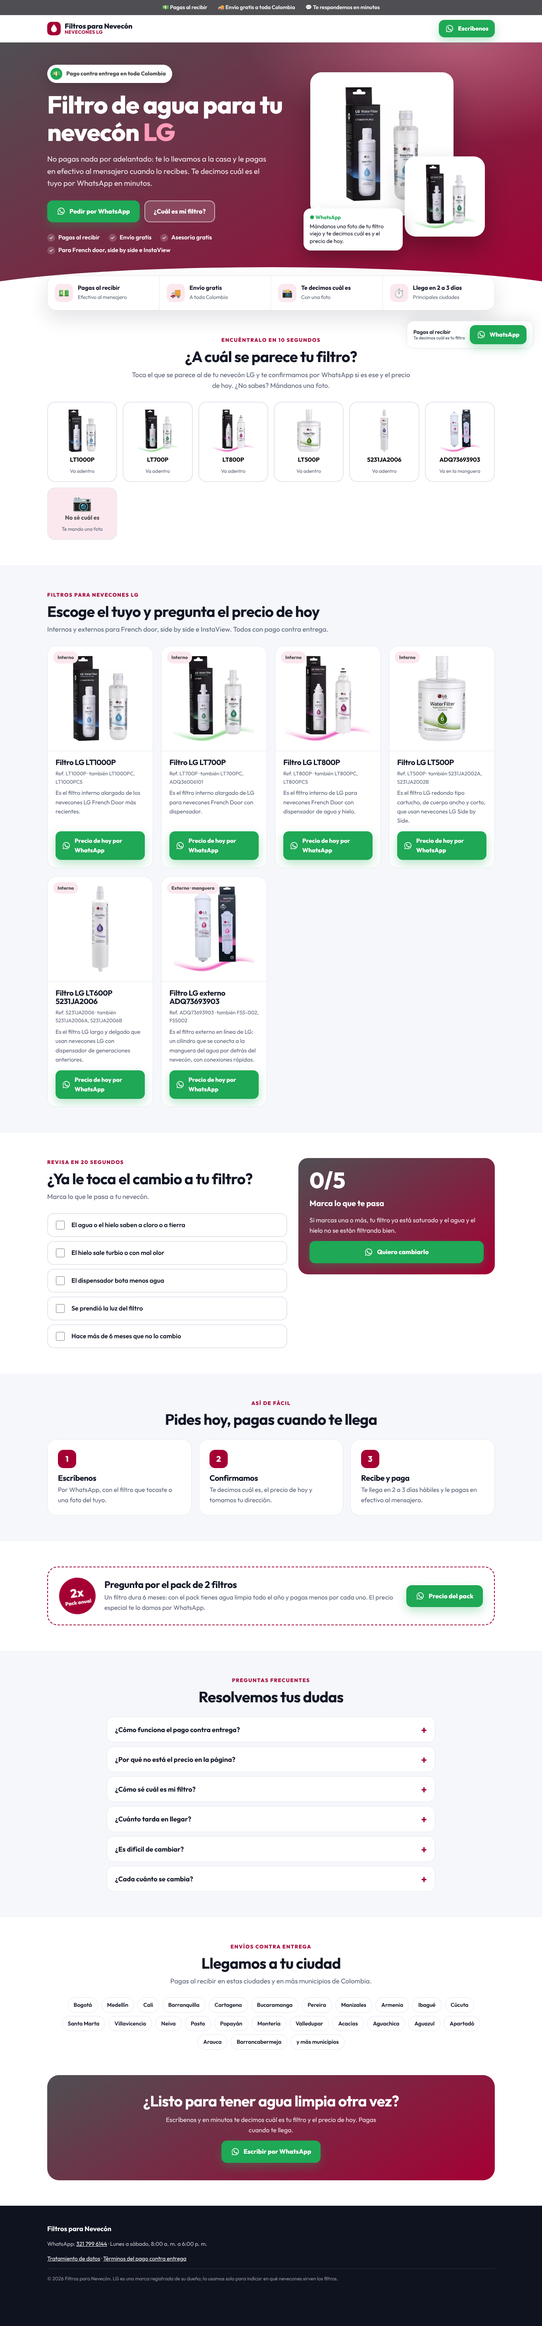
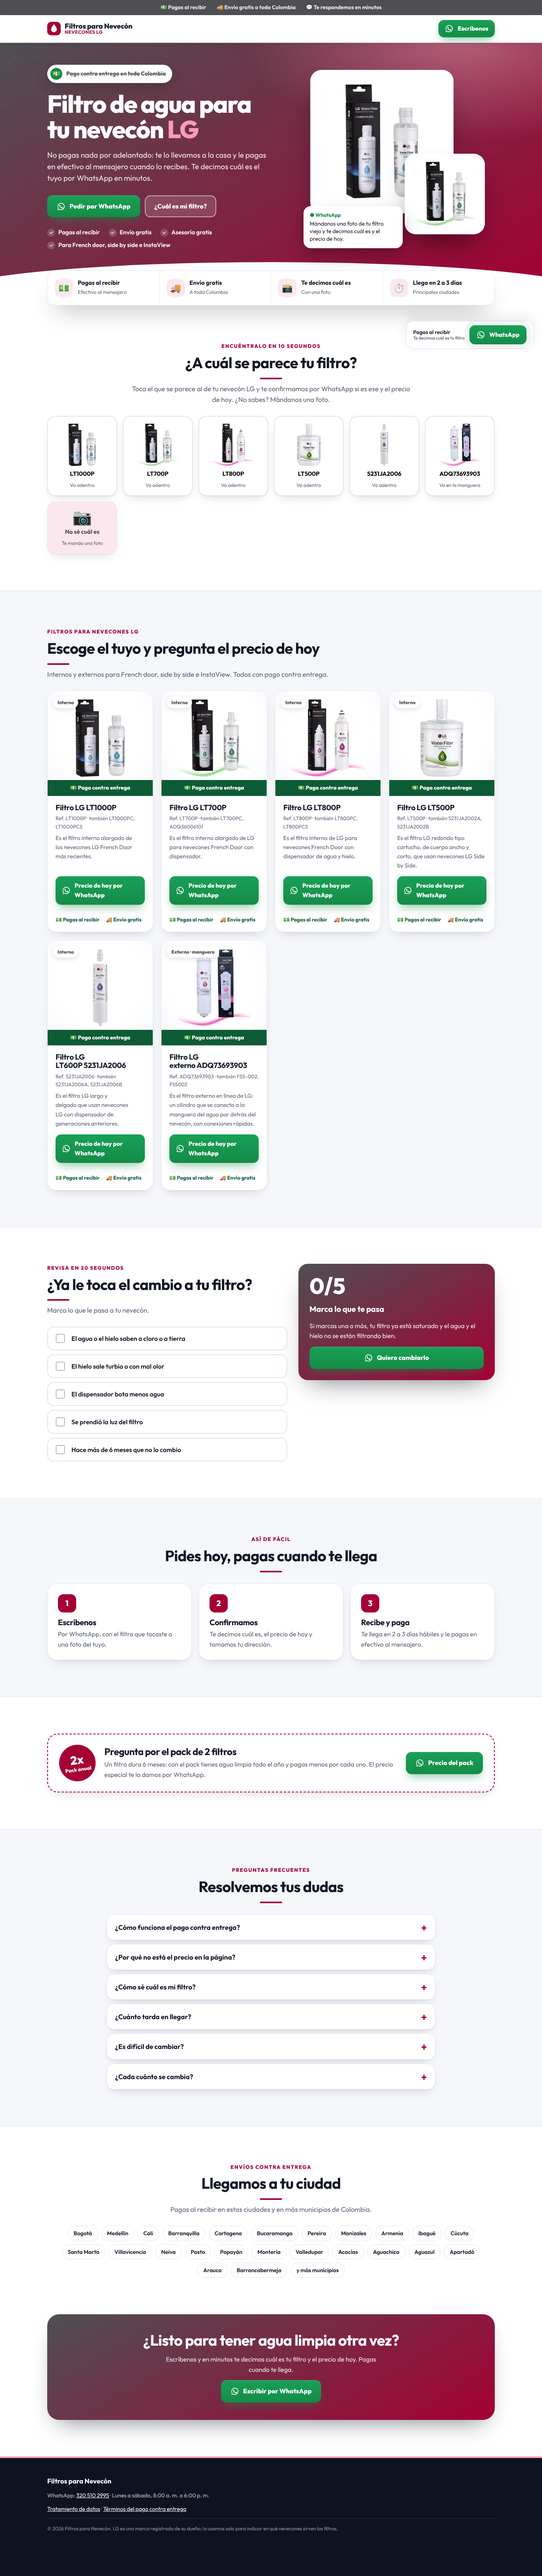
Páginas de Google Ads: números de Samsung y LG, Whirlpool y GE, sello contra entrega en cada producto y CSS más pulido
- Samsung 305 479 6329 y LG 320 510 2995; Whirlpool y GE con el 321 799 6144.
- Cada producto lleva «Paga contra entrega», «Pagas al recibir» y envío.
- Hoja de estilos más profesional: tipografía, sombras, contraste del botón
  de WhatsApp, patrón en la portada, foco visible y movimiento reducido.

Claude-Session: https://claude.ai/code/session_01Sp6cWLHDTqXsEaejCBC2fh

diff --git a/filtroya-web/ads_marcas.py b/filtroya-web/ads_marcas.py
@@ -28,10 +28,15 @@ HORARIO = "Lunes a sábado, 8:00 a. m. a 6:00 p. m."
 GTM = "GTM-N39G66VJ"                      # mismo contenedor: evento «whatsapp» al tocar cualquier botón de WhatsApp
 ENVIO_GRATIS = True                       # False si el envío contra entrega lo paga el cliente
 MARCAS = {  # número de WhatsApp de cada página (10 dígitos, sin +57)
-    "Samsung": {"whatsapp": "3217996144", "fuente": "Plus Jakarta Sans", "pri": "#1428a0", "pri2": "#0a1460", "acento": "#a9b8ff", "suave": "#e8ecfb",
+    "Samsung": {"whatsapp": "3054796329", "fuente": "Plus Jakarta Sans", "pri": "#1428a0", "pri2": "#0a1460", "acento": "#a9b8ff", "suave": "#e8ecfb",
                 "lineas": "French door, side by side, Bespoke y Family Hub", "etiqueta": "dentro de la nevera, en una pared lateral o en el techo; empieza por RF, RS o RH"},
-    "LG": {"whatsapp": "3217996144", "fuente": "Outfit", "pri": "#a50034", "pri2": "#4f4f53", "acento": "#ff9bb8", "suave": "#fbe8ee", "gris": "#6b6b6b",
+    "LG": {"whatsapp": "3205102995", "fuente": "Outfit", "pri": "#a50034", "pri2": "#4f4f53", "acento": "#ff9bb8", "suave": "#fbe8ee", "gris": "#6b6b6b",
            "lineas": "French door, side by side e InstaView", "etiqueta": "dentro de la nevera, en la pared lateral o detrás del cajón de las verduras; empieza por LF, LM, LR, LS o GR"},
+    "Whirlpool": {"whatsapp": "3217996144", "fuente": "DM Sans", "pri": "#2b2724", "pri2": "#141211", "acento": "#eeb111", "suave": "#fcefc9", "gris": "#5f5b58",
+                  "eye": "#8a6400", "chip": "#eeb111", "chip_ink": "#231f20", "gota": "#eeb111", "subrayado": "#eeb111",
+                  "lineas": "French door, side by side y congelador abajo", "etiqueta": "dentro de la nevera, en la pared lateral de arriba; empieza por WRF, WRS o WRX"},
+    "GE": {"whatsapp": "3217996144", "fuente": "Lexend", "pri": "#3b73b9", "pri2": "#1d3f6e", "acento": "#cfe2ff", "suave": "#e2ecf8", "gris": "#5a6b80",
+           "lineas": "French door y side by side", "etiqueta": "dentro de la nevera, en la pared lateral o en el techo; empieza por GFE, GNE, GSS, PFE, PYE o CFE"},
 }
 
 esc = lambda s: html.escape(str(s), quote=True)
@@ -71,12 +76,13 @@ def pagina(marca, cfg, ps, ciud):
     tarjetas = "".join(f'''
       <article class="card">
         <span class="tipo">{"Externo · manguera" if externo(p) else "Interno"}</span>
-        <div class="im"><picture><source srcset="img/{p["id"]}-400.webp" type="image/webp"><img src="img/{p["id"]}.jpg" alt="{esc(nombre(p))} para nevecón {esc(marca)}" width="400" height="400" loading="lazy"></picture></div>
+        <div class="im"><picture><source srcset="img/{p["id"]}-400.webp" type="image/webp"><img src="img/{p["id"]}.jpg" alt="{esc(nombre(p))} para nevecón {esc(marca)}" width="400" height="400" loading="lazy"></picture><span class="cod-card">💵 Paga contra entrega</span></div>
         <div class="tx">
           <h3>{esc(nombre(p))}</h3>
           <span class="ref">Ref. {esc(p["ref"])}{(" · también " + esc(", ".join([r for r in p["refs"] if r != p["ref"]][:2]))) if len(p["refs"]) > 1 else ""}</span>
           <p>{esc((p.get("desc") or "").split(". ")[0])}.</p>
           <a class="btn wa" data-wa="tarjeta" href="{esc(wa(n, f'Hola, quiero el precio de hoy del {nombre(p)} para mi nevecón {marca}, con pago contra entrega.'))}" target="_blank" rel="noopener">{ICONO_WA}Precio de hoy por WhatsApp</a>
+          <div class="pie-card"><span>💵 Pagas al recibir</span><span>🚚 {envio}</span></div>
         </div>
       </article>''' for p in ps)
     elegir = "".join(f'''<button type="button" class="pick" data-msg="{esc(f'Hola, mi filtro se parece al {nombre(p)}. ¿Me confirman si es el de mi nevecón {marca} y el precio de hoy con pago contra entrega?')}"><img src="img/{p["id"]}-400.webp" alt="" width="120" height="120" loading="lazy"><b>{esc(p["ref"])}</b><small>{"Va en la manguera" if externo(p) else "Va adentro"}</small></button>''' for p in ps)
@@ -209,13 +215,15 @@ footer .leg{{font-size:12.5px;color:rgba(255,255,255,.55);border-top:1px solid r
 .fija span{{flex:1;font-size:13.5px;line-height:1.25;font-weight:600}}.fija span small{{display:block;color:var(--muted);font-weight:500}}
 .fija .btn{{padding:12px 18px;min-height:48px;font-size:15px}}
 @media (min-width:861px){{.fija{{left:auto;right:22px;bottom:22px;border-radius:18px;border:1px solid var(--line);max-width:430px}}}}
+:root{{--eye:{cfg.get('eye', cfg['pri'])};--chip:{cfg.get('chip', cfg['pri'])};--chip-ink:{cfg.get('chip_ink', '#fff')};--linea:{cfg.get('subrayado', cfg['pri'])}}}
+{PULIDO}
 </style>
 </head>
 <body>
 <noscript><iframe src="https://www.googletagmanager.com/ns.html?id={GTM}" height="0" width="0" style="display:none;visibility:hidden"></iframe></noscript>
 <div class="barra"><span>💵 Pagas al recibir</span><span>🚚 {envio} a toda Colombia</span><span>💬 Te respondemos en minutos</span></div>
 <header><div class="w">
-  <a class="marca" href="#"><svg viewBox="0 0 24 24" aria-hidden="true"><rect width="24" height="24" rx="7" fill="{cfg['pri']}"/><path d="M12 4.2C9.4 7.6 6.9 10.3 6.9 13.5a5.1 5.1 0 0 0 10.2 0c0-3.2-2.5-5.9-5.1-9.3z" fill="#fff"/></svg><span style="color:var(--ink);text-transform:none;letter-spacing:-.01em"><b>{esc(NEGOCIO)}</b><span>Nevecones {esc(marca)}</span></span></a>
+  <a class="marca" href="#"><svg viewBox="0 0 24 24" aria-hidden="true"><rect width="24" height="24" rx="7" fill="{cfg['pri']}"/><path d="M12 4.2C9.4 7.6 6.9 10.3 6.9 13.5a5.1 5.1 0 0 0 10.2 0c0-3.2-2.5-5.9-5.1-9.3z" fill="{cfg.get('gota', '#fff')}"/></svg><span style="color:var(--ink);text-transform:none;letter-spacing:-.01em"><b>{esc(NEGOCIO)}</b><span>Nevecones {esc(marca)}</span></span></a>
   <a class="btn wa" data-wa="encabezado" href="{esc(wa(n, hola))}" target="_blank" rel="noopener">{ICONO_WA}<span>Escríbenos</span></a>
 </div></header>
 
@@ -333,6 +341,55 @@ footer .leg{{font-size:12.5px;color:rgba(255,255,255,.55);border-top:1px solid r
 """
 
 
+PULIDO = """
+/* ===== pulido profesional ===== */
+:root{--wa:#148c48;--wa2:#0f7a3d;--sombra:0 1px 2px rgba(18,23,38,.05),0 12px 28px -14px rgba(18,23,38,.22)}
+body{text-rendering:optimizeLegibility;font-feature-settings:"kern","liga"}
+h1,h2,h3{text-wrap:balance}p,summary{text-wrap:pretty}
+#cual,#filtros{scroll-margin-top:84px}
+.sec{padding:clamp(52px,7vw,92px) 0}.sec.alt{border-block:1px solid var(--line)}
+.eye{color:var(--eye)}
+.cab h2::after{content:"";display:block;width:56px;height:4px;border-radius:4px;background:var(--linea);margin-top:16px}.cab.c h2::after{margin-inline:auto}
+:focus-visible{outline:3px solid color-mix(in srgb,var(--pri) 55%,#fff);outline-offset:3px;border-radius:12px}
+/* botones */
+.btn{letter-spacing:.005em}.btn:active{transform:translateY(0)}
+.btn.wa{background:linear-gradient(180deg,#19a057,var(--wa));box-shadow:0 1px 0 rgba(255,255,255,.25) inset,0 12px 24px -8px rgba(20,140,72,.55)}
+.btn.wa:hover{background:linear-gradient(180deg,#169650,var(--wa2))}
+.btn.borde{box-shadow:inset 0 0 0 2px var(--pri)}
+/* encabezado */
+header{box-shadow:0 1px 0 var(--line),0 8px 24px -18px rgba(18,23,38,.4)}
+.barra{letter-spacing:.01em}
+/* portada */
+.hero::before{content:"";position:absolute;inset:0;background-image:radial-gradient(rgba(255,255,255,.16) 1.2px,transparent 1.6px);background-size:24px 24px;-webkit-mask-image:linear-gradient(115deg,#000 0,transparent 62%);mask-image:linear-gradient(115deg,#000 0,transparent 62%)}
+.hero h1{letter-spacing:-.03em;line-height:1.04}
+.hero .lead{line-height:1.55}
+.vis .f{box-shadow:0 40px 70px -20px rgba(0,0,0,.45),0 0 0 1px rgba(255,255,255,.4) inset}
+.franja .w>div{box-shadow:0 30px 60px -24px rgba(18,23,38,.35)}
+.franja .ic{background:var(--suave)}
+/* tarjetas de producto */
+.card{border-radius:22px;border-color:color-mix(in srgb,var(--line) 70%,#fff);box-shadow:var(--sombra)}
+.card:hover{box-shadow:0 1px 2px rgba(18,23,38,.05),0 28px 50px -18px rgba(18,23,38,.3)}
+.card .im{background:radial-gradient(circle at 50% 38%,#fff 52%,var(--panel))}
+.card .im picture{inset:7% 9% 17% 9%}
+.card .tipo{top:14px;left:14px;background:#fff;color:var(--pri2);box-shadow:0 4px 12px rgba(18,23,38,.12)}
+.cod-card{position:absolute;left:0;right:0;bottom:0;z-index:2;display:flex;align-items:center;justify-content:center;gap:6px;background:#0d5c36;color:#fff;font-size:13.5px;font-weight:800;letter-spacing:.01em;padding:9px 12px}
+.card h3{font-size:19px;letter-spacing:-.015em}
+.pie-card{display:flex;flex-wrap:wrap;gap:4px 16px;font-size:13px;font-weight:700;color:#0d5c36;border-top:1px dashed var(--line);padding-top:12px;margin-top:8px}
+/* otros bloques */
+.pick,.paso,details,.elegido{box-shadow:var(--sombra)}
+.paso::before{background:var(--chip);color:var(--chip-ink)}
+.promo .sello{background:var(--chip);color:var(--chip-ink)}
+.promo{box-shadow:var(--sombra)}
+details[open]{border-color:color-mix(in srgb,var(--pri) 45%,var(--line))}
+.veredicto{box-shadow:0 30px 60px -28px rgba(18,23,38,.55)}
+.final{box-shadow:0 30px 60px -28px rgba(18,23,38,.55)}
+footer{border-top:4px solid var(--acento)}
+footer .w{gap:12px}
+.fija .btn.wa{animation:pulso 2.6s ease-out infinite}
+@keyframes pulso{0%{box-shadow:0 0 0 0 rgba(20,140,72,.5)}70%{box-shadow:0 0 0 14px rgba(20,140,72,0)}100%{box-shadow:0 0 0 0 rgba(20,140,72,0)}}
+@media (prefers-reduced-motion:reduce){*,*::before,*::after{animation:none!important;transition:none!important;scroll-behavior:auto!important}}
+"""
+
 ICONO_WA = '<svg viewBox="0 0 32 32" aria-hidden="true"><path fill="currentColor" d="M16 3a13 13 0 0 0-11.2 19.6L3 29l6.6-1.7A13 13 0 1 0 16 3zm0 23.6c-2 0-4-.6-5.7-1.6l-.4-.2-3.9 1 1-3.8-.3-.4A10.6 10.6 0 1 1 16 26.6zm5.8-7.9c-.3-.2-1.9-.9-2.2-1-.3-.1-.5-.2-.7.2l-1 1.2c-.2.2-.4.2-.7.1a8.7 8.7 0 0 1-4.3-3.8c-.3-.6.3-.5 1-1.7.1-.2 0-.4 0-.6l-1-2.4c-.3-.6-.5-.5-.7-.5h-.6c-.2 0-.6.1-.9.4-.3.3-1.2 1.1-1.2 2.8s1.2 3.2 1.4 3.5c.2.2 2.4 3.7 5.8 5.1 2.2.9 3 1 4.1.8.7-.1 1.9-.8 2.2-1.5.3-.8.3-1.4.2-1.5-.1-.2-.3-.3-.6-.4z"/></svg>'
 
 
@@ -372,7 +429,7 @@ def main():
         for p in ps:
             for suf in (".jpg", ".webp", "-400.webp"):
                 shutil.copy(FOTOS / f"{p['id']}{suf}", d / "img" / f"{p['id']}{suf}")
-        (d / "img" / "icono.svg").write_text(f'<svg xmlns="http://www.w3.org/2000/svg" viewBox="0 0 24 24"><rect width="24" height="24" rx="7" fill="{cfg["pri"]}"/><path d="M12 4.2C9.4 7.6 6.9 10.3 6.9 13.5a5.1 5.1 0 0 0 10.2 0c0-3.2-2.5-5.9-5.1-9.3z" fill="#fff"/></svg>', encoding="utf-8")
+        (d / "img" / "icono.svg").write_text(f'<svg xmlns="http://www.w3.org/2000/svg" viewBox="0 0 24 24"><rect width="24" height="24" rx="7" fill="{cfg["pri"]}"/><path d="M12 4.2C9.4 7.6 6.9 10.3 6.9 13.5a5.1 5.1 0 0 0 10.2 0c0-3.2-2.5-5.9-5.1-9.3z" fill="{cfg.get("gota", "#fff")}"/></svg>', encoding="utf-8")
         (d / "index.html").write_text(pagina(marca, cfg, ps, ciud), encoding="utf-8")
         (d / "privacidad.html").write_text(legal(marca, cfg, "privacidad"), encoding="utf-8")
         (d / "terminos.html").write_text(legal(marca, cfg, "terminos"), encoding="utf-8")
